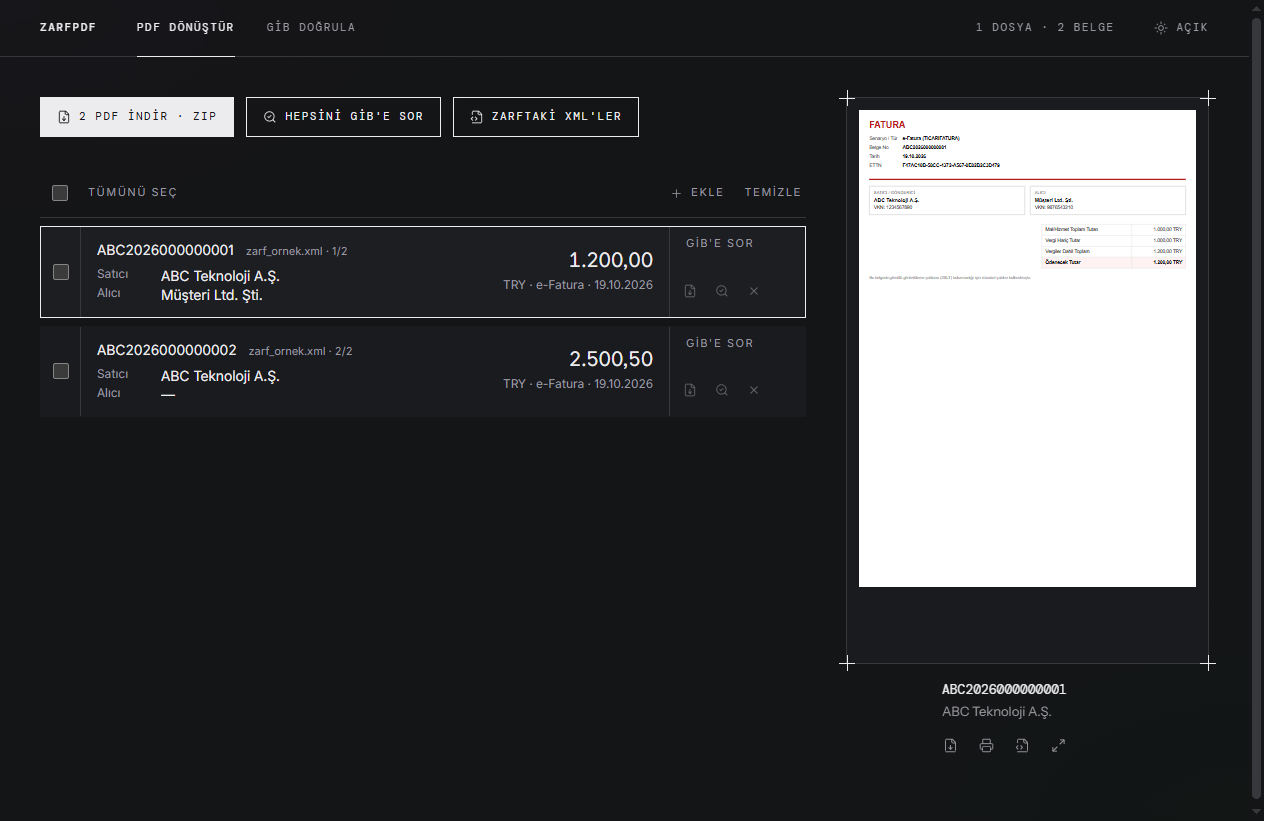
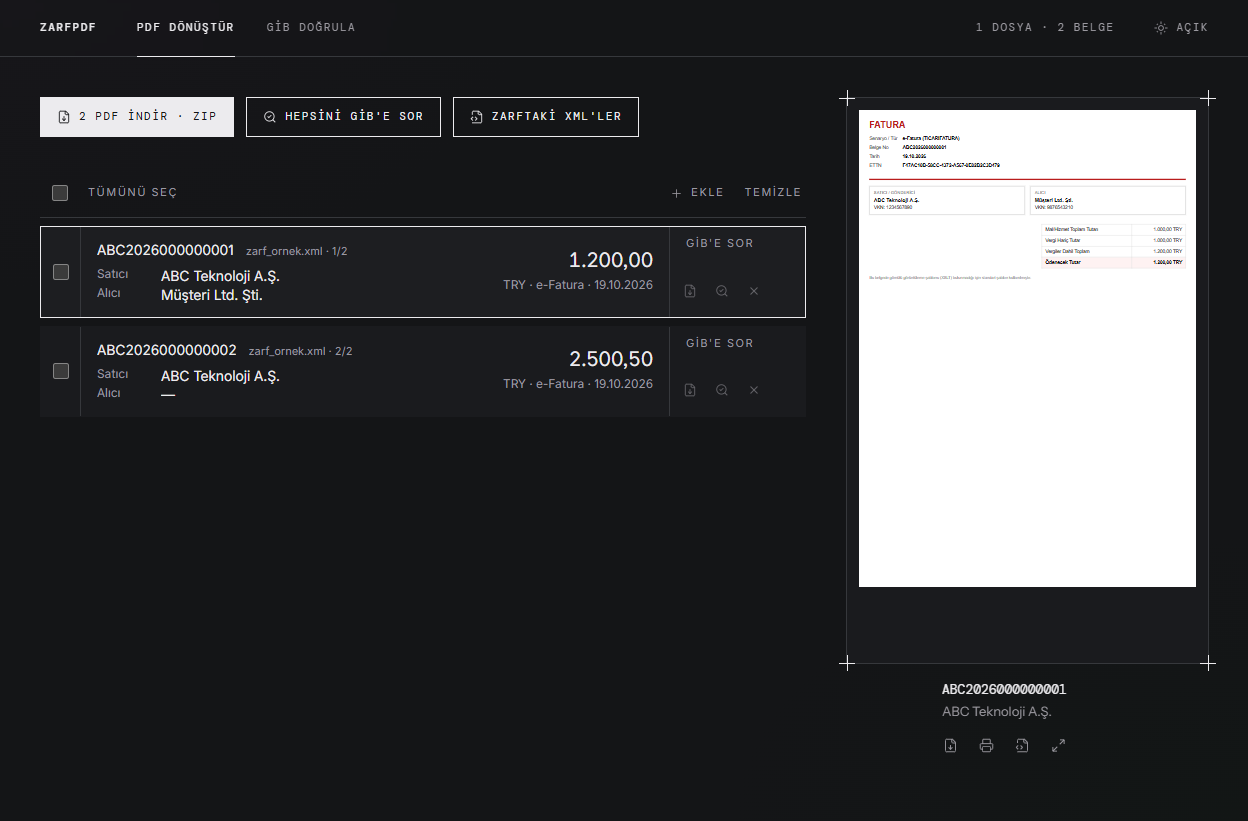
fix(site): uydurma öğeleri gerçekleriyle değiştir
- Gri çizgili PDF iskeletleri yerine uygulamanın örnek zarftan ürettiği
  iki gerçek PDF sayfası
- Kapanmayan etiketli XML parçası yerine örnek zarfın düzgün özeti;
  PDF'e dönüşen fatura numaraları vurgulu
- Uydurma faturalara 'GEÇERLİ' basan GİB mührü kaldırıldı
- Tekrarlanan gizlilik ve sürüm metinleri teke indi; başlığa tek cümle
  açıklama, üst çubuğa İndir, alta kaynak kodu bağlantısı
- Ekran görüntüsünden uygulamanın kaydırma çubuğu kırpıldı, çift kayıt
  artısı kaldırıldı
- Firma şablonu vaadi 'varsa' koşuluyla düzeltildi

diff --git a/site/Site.tsx b/site/Site.tsx
@@ -1,80 +1,55 @@
 import { ArrowRight, Download } from 'lucide-react';
 import shotLight from './assets/app-light.png';
 import shotDark from './assets/app-dark.png';
+import pdf1 from './assets/pdf-1.png';
+import pdf2 from './assets/pdf-2.png';
 
 /**
- * Tanıtım sayfası: ana görsel dönüşümün kendisidir. Solda zarf XML'i girer, sağda PDF'ler
- * ve GİB mührü çıkar; uygulamanın ekranı en sonda kanıt olarak durur.
+ * Tanıtım sayfası: ana görsel dönüşümün kendisidir. Soldaki zarfın içindeki iki fatura,
+ * sağda uygulamanın bu dosyadan ürettiği iki gerçek PDF sayfası olarak çıkar.
+ * Örnek dosya: tests/fixtures/zarf_ornek.xml (uydurma veri).
  */
 
-// Yeni sürümde VERSION, META ve dosya adı birlikte güncellenir.
+// Yeni sürümde VERSION ve dosya adı birlikte güncellenir.
 const VERSION = '1.1.0';
 const DOWNLOAD = `https://github.com/berkutercin/xmldeploy/releases/download/v${VERSION}/ZarfPDF.Setup.${VERSION}.exe`;
-const META = `${VERSION} · Windows 10 ve 11 · 117 MB`;
+const REPO = 'https://github.com/berkutercin/xmldeploy';
 
-const XML = `<sh:StandardBusinessDocument>
-  <ef:Package>
-    <Invoice>
-      <cbc:ID>ABC2026000000001</cbc:ID>
-      <cac:AdditionalDocumentReference>
-        … firma.xslt (base64)
-    </Invoice>
-    <Invoice>
-      <cbc:ID>ABC2026000000002</cbc:ID>
-    </Invoice>`;
-
-const IO: [string, string[]][] = [
-  ['Verebilecekleriniz', ['Tek XML ya da birden çok XML', 'Klasör', 'ZIP', 'İçinde birden çok fatura olan GİB zarfı']],
-  ['Alacaklarınız', ['Tek PDF', "PDF'lerden oluşan ZIP", "Zarftan ayıklanmış saf XML'ler", 'GİB durum sonucu']],
+// Örnek zarfın kısaltılmış hali; vurgulu satırlar sağdaki PDF'lere dönüşen belgeler.
+const XML: [string, boolean?][] = [
+  ['<sh:StandardBusinessDocument>'],
+  ['  <!-- gönderen, alıcı, zarf numarası -->'],
+  ['  <ef:Package>'],
+  ['    <Elements>'],
+  ['      <ElementType>INVOICE</ElementType>'],
+  ['      <ElementCount>2</ElementCount>'],
+  ['      <ElementList>'],
+  ['        <Invoice>'],
+  ['          <cbc:ID>ABC2026000000001</cbc:ID>', true],
+  ['          …'],
+  ['        </Invoice>'],
+  ['        <Invoice>'],
+  ['          <cbc:ID>ABC2026000000002</cbc:ID>', true],
+  ['          …'],
+  ['        </Invoice>'],
+  ['      </ElementList>'],
+  ['    </Elements>'],
+  ['  </ef:Package>'],
+  ['</sh:StandardBusinessDocument>'],
 ];
 
-function Marks() {
-  return (
-    <>
-      <span className="plate-mark -left-2 -top-2" />
-      <span className="plate-mark -right-2 -top-2" />
-      <span className="plate-mark -bottom-2 -left-2" />
-      <span className="plate-mark -bottom-2 -right-2" />
-    </>
-  );
-}
-
-/** Uygulamadaki GİB mührünün aynısı; burada örnek sonuç gösterir. */
-function Stamp({ size }: { size: number }) {
-  return (
-    <svg viewBox="0 0 120 120" width={size} height={size} role="img" aria-label="Örnek GİB sonucu: geçerli" className="stamp-in text-seal-ink">
-      <defs>
-        <path id="stamp-ring" d="M60,60 m-44,0 a44,44 0 1,1 88,0 a44,44 0 1,1 -88,0" />
-      </defs>
-      <circle cx="60" cy="60" r="58" className="fill-seal" />
-      <circle cx="60" cy="60" r="34" fill="none" stroke="currentColor" strokeWidth="0.75" opacity="0.5" />
-      <text className="fill-seal-ink" style={{ font: '500 8.2px var(--font-mono)', letterSpacing: '0.14em' }}>
-        <textPath href="#stamp-ring" textLength="272">GİB SORGUSU · KAYIT BULUNDU · </textPath>
-      </text>
-      <text x="60" y="64" textAnchor="middle" className="fill-seal-ink" style={{ font: '600 12px var(--font-body)', letterSpacing: '0.04em' }}>
-        GEÇERLİ
-      </text>
-    </svg>
-  );
-}
-
-/** Çıktı tarafındaki küçük PDF: gerçek faturanın kâğıdı gibi her temada beyaz. */
-function MiniPdf({ no, amount }: { no: string; amount: string }) {
-  return (
-    <div className="aspect-[210/297] w-full border border-rule bg-white p-3 text-[#16181a]" aria-label={`${no} PDF`}>
-      <div className="text-[9px] font-semibold tracking-wide text-[#a8322b]">FATURA</div>
-      <div className="mt-1 font-mono text-[7px]">{no}</div>
-      <div className="mt-3 grid grid-cols-2 gap-1">
-        <div className="h-6 border border-[#ddd]" />
-        <div className="h-6 border border-[#ddd]" />
-      </div>
-      <div className="mt-3 space-y-1">
-        {[80, 64, 72].map((w) => <div key={w} className="h-[3px] bg-[#e6e6e6]" style={{ width: `${w}%` }} />)}
-      </div>
-      <div className="ml-auto mt-3 w-1/2 border-t border-[#16181a] pt-1 text-right font-mono text-[7px]">{amount} TRY</div>
-    </div>
-  );
-}
+const LISTS: [string, string[]][] = [
+  ['Açtığı dosyalar', [
+    'e-Fatura, e-Arşiv ve e-İrsaliye XML’leri',
+    'İçinde birden çok belge olan GİB zarfları',
+    'Klasör ya da ZIP; yüzlerce dosya bir arada',
+  ]],
+  ['Verdiği çıktılar', [
+    'Her belge için A4 PDF; faturada firma şablonu varsa onunla, yoksa standart düzende',
+    'Toplu indirmede tek ZIP',
+    'Belgenin GİB’deki durumu: geçerli, iptal, reddedildi',
+  ]],
+];
 
 export default function Site() {
   return (
@@ -82,81 +57,94 @@ export default function Site() {
       <header className="border-b border-rule">
         <div className="mx-auto flex h-14 max-w-[1200px] items-center justify-between px-4 md:px-10">
           <span className="token font-medium text-ink">ZarfPDF</span>
-          <span className="token hidden text-muted sm:inline">{META}</span>
+          <a href={DOWNLOAD} className="btn h-9">İndir</a>
         </div>
       </header>
 
       <main className="mx-auto max-w-[1200px] px-4 md:px-10">
-        <section className="py-14 lg:py-20">
-          <h1 className="max-w-[18ch] text-[40px] font-medium leading-[1.05] tracking-[-0.02em] md:text-[56px]">
-            Zarf girer. PDF ve GİB sonucu çıkar.
+        <section className="pb-20 pt-14 lg:pt-20">
+          <h1 className="text-[44px] font-medium leading-[1.02] tracking-[-0.025em] md:text-[64px]">
+            Zarf girer, PDF çıkar.
           </h1>
+          <p className="mt-5 max-w-[36rem] text-[17px] leading-relaxed text-ink-2">
+            GİB zarfının içindeki her faturayı ayrı bir A4 PDF’e çeviren Windows uygulaması. Dosyalar bilgisayarınızda kalır.
+          </p>
 
-          <div className="mt-12 grid items-stretch gap-6 lg:grid-cols-[1.1fr_auto_1fr]">
-            <figure className="flex flex-col border border-rule bg-paper-3">
-              <figcaption className="token border-b border-rule px-4 py-3 text-muted">Girdi · zarf_ornek.xml</figcaption>
-              <pre className="flex-1 overflow-x-auto p-4 font-mono text-[12px] leading-[1.7] text-ink-2">{XML}</pre>
+          <div className="mt-12 grid gap-4 lg:grid-cols-[minmax(0,1fr)_2.5rem_minmax(0,1.1fr)] lg:gap-6">
+            <figure className="min-w-0 border border-rule bg-paper-3">
+              <figcaption className="border-b border-rule px-4 py-3 text-[13px] text-muted">zarf_ornek.xml</figcaption>
+              <pre className="overflow-x-auto p-4 font-mono text-[12px] leading-[1.75]">
+                {XML.map(([line, hit], i) => (
+                  <div key={i} className={hit ? 'font-medium text-ink' : 'text-muted'}>{line}</div>
+                ))}
+              </pre>
             </figure>
 
-            <div className="flex items-center justify-center gap-3 py-2 lg:flex-col" aria-hidden="true">
-              <span className="token text-muted">ZarfPDF</span>
+            <div className="flex items-center justify-center text-muted" aria-hidden="true">
               <ArrowRight size={20} strokeWidth={1.5} className="rotate-90 lg:rotate-0" />
             </div>
 
-            <figure className="relative flex flex-col border border-rule bg-paper-3">
-              <figcaption className="token border-b border-rule px-4 py-3 text-muted">Çıktı · 2 PDF</figcaption>
-              <div className="grid flex-1 grid-cols-2 gap-4 p-4 pb-14">
-                <MiniPdf no="ABC2026000000001" amount="1.200,00" />
-                <MiniPdf no="ABC2026000000002" amount="2.500,50" />
-              </div>
-              <div className="absolute -bottom-10 right-6 -rotate-[8deg]">
-                <Stamp size={104} />
-              </div>
+            <figure className="grid min-w-0 grid-cols-2 content-start gap-4">
+              {[
+                [pdf1, 'ABC2026000000001'],
+                [pdf2, 'ABC2026000000002'],
+              ].map(([src, no]) => (
+                <div key={no}>
+                  <img src={src} alt={`${no} numaralı faturanın PDF’i`} className="block w-full border border-rule" width={337} height={477} />
+                  <div className="mt-2 font-mono text-[12px] text-ink-2">{no}.pdf</div>
+                </div>
+              ))}
             </figure>
           </div>
 
-          <div className="mt-16 flex flex-wrap items-center gap-x-4 gap-y-3">
+          <div className="mt-14 flex flex-wrap items-center gap-x-5 gap-y-3">
             <a href={DOWNLOAD} className="btn-primary h-11 px-5">
               <Download size={14} strokeWidth={1.5} /> Windows için indir
             </a>
-            <span className="text-[14px] text-muted">Kurulum imzasız; Windows uyarı verirse “Ek bilgi → Yine de çalıştır”.</span>
+            <span className="text-[14px] text-muted">Sürüm {VERSION} · Windows 10 ve 11 · 117 MB</span>
           </div>
+          <p className="mt-3 max-w-[36rem] text-[14px] text-muted">
+            Kurulum dosyası imzasız. Windows uyarı gösterirse “Ek bilgi”, ardından “Yine de çalıştır”a basın.
+          </p>
         </section>
 
-        <section className="grid border-t border-ink md:grid-cols-2" aria-label="Girdi ve çıktı">
-          {IO.map(([title, items], i) => (
-            <div key={title} className={`py-8 ${i ? 'border-t border-rule md:border-l md:border-t-0 md:pl-10' : 'md:pr-10'}`}>
-              <h2 className="token text-muted">{title}</h2>
-              <ul className="mt-4">
+        <section className="grid gap-x-10 border-t border-ink md:grid-cols-2">
+          {LISTS.map(([title, items], i) => (
+            <div key={title} className={`pb-6 pt-8 ${i ? 'border-t border-rule md:border-t-0' : ''}`}>
+              <h2 className="text-[20px] font-medium">{title}</h2>
+              <ul className="mt-3">
                 {items.map((t) => (
-                  <li key={t} className="border-b border-rule py-3 text-[17px]">{t}</li>
+                  <li key={t} className="border-b border-rule py-3 text-[16px] text-ink-2 last:border-b-0">{t}</li>
                 ))}
               </ul>
             </div>
           ))}
         </section>
 
-        <section className="py-16">
-          <div className="plate p-3">
-            <Marks />
+        <section className="pb-20 pt-12">
+          <figure>
             <picture>
               <source srcSet={shotDark} media="(prefers-color-scheme: dark)" />
               <img
                 src={shotLight}
                 alt="ZarfPDF: solda fatura listesi, sağda seçili faturanın PDF önizlemesi"
                 className="block w-full border border-rule"
+                width={1248}
+                height={821}
                 loading="lazy"
               />
             </picture>
-          </div>
-          <p className="mt-4 text-[14px] text-muted">Her şey bilgisayarınızda işlenir. GİB sorgusu Türkiye IP'sinden çalışır.</p>
+            <figcaption className="mt-4 max-w-[40rem] text-[14px] text-muted">
+              Solda faturalar, sağda seçili faturanın PDF’i. Satırdaki “GİB’e sor” belgenin GİB’deki durumunu getirir; bu sorgu dışında internete hiçbir şey gitmez.
+            </figcaption>
+          </figure>
         </section>
       </main>
 
       <footer className="border-t border-rule">
         <div className="mx-auto flex max-w-[1200px] flex-wrap items-center justify-between gap-2 px-4 py-6 text-[13px] text-muted md:px-10">
-          <span>ZarfPDF {META}</span>
-          <span>Dosyalarınız bilgisayarınızda işlenir. Dışarı giden tek istek GİB sorgusudur.</span>
+          <span>ZarfPDF {VERSION}</span>
+          <a href={REPO} className="underline-offset-4 hover:text-ink hover:underline">Kaynak kodu GitHub’da</a>
         </div>
       </footer>
     </div>
